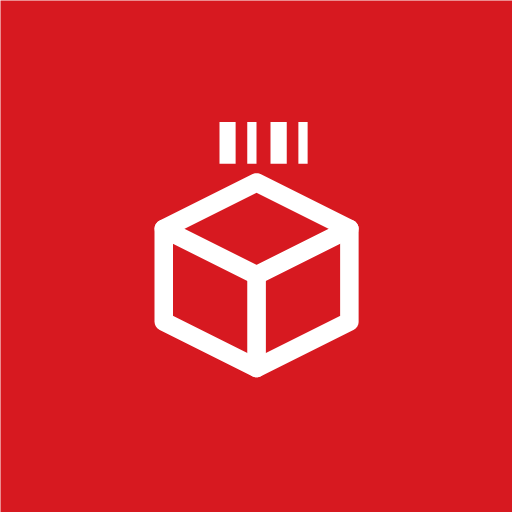
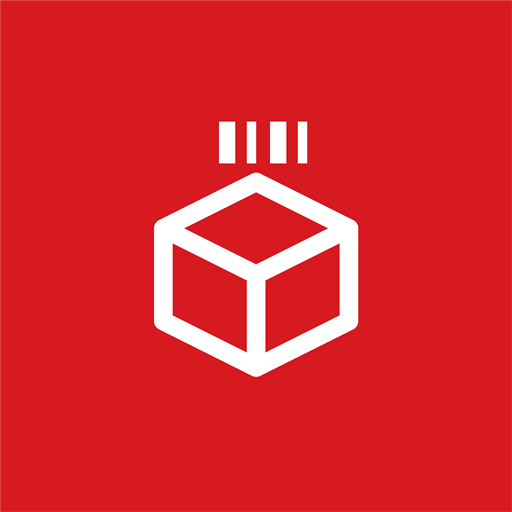
Juego completo de iconos: sin cuadrado rojo en el arranque y sin pixelar (v51)
FALTABAN LINKS EN EL HEAD
No habia apple-touch-icon ni favicon. Ninguno de los dos. En iOS eso hace que
el icono de inicio salga de una captura escalada de la pagina: por eso se veia
pixelado.

EL CUADRADO ROJO DEL ARRANQUE
Android dibuja su propia pantalla de carga con background_color y el icono del
manifest, antes de que corra una linea del codigo. Si ese icono trae fondo, se
ve el cuadrado. Ahora hay un icon-glifo-512.png SIN fondo declarado como
purpose "any", que es el que usa esa pantalla, y los de fondo rojo quedan como
purpose "maskable" para la pantalla de inicio.

PIXELADO
Los PNG ahora se generan con supersampling 4x: se dibujan al cuadruple y se
bajan con bicubica. Sin eso los bordes diagonales de la caja salian dentados.

apple-touch-icon va con fondo rojo opaco: iOS no maneja transparencia en el
icono de inicio, la compone sobre negro.

Los cinco archivos entran en el cache del service worker.

NOTA: la pantalla de arranque propia sigue usando SVG y no PNG a proposito. Ahi
no hay ningun cuadrado rojo (son trazos blancos sobre el fondo), y el SVG es lo
que permite animar el dibujo de la caja con stroke-dashoffset. Un PNG solo
podria aparecer y desaparecer.

diff --git a/index.html b/index.html
@@ -4,6 +4,8 @@
 <meta charset="UTF-8">
 <meta name="viewport" content="width=device-width, initial-scale=1.0">
 <link rel="manifest" href="manifest.json">
+<link rel="icon" type="image/png" href="favicon.png">
+<link rel="apple-touch-icon" href="apple-touch-icon.png">
 <meta name="theme-color" content="#d71920">
 <meta name="mobile-web-app-capable" content="yes">
 <meta name="apple-mobile-web-app-capable" content="yes">
@@ -560,7 +562,7 @@
 
 </main>
 
-<footer>Herramienta interna · <span>Nuñez Joel</span> · CyPe <span class="footer-version" id="footerVer">v50</span></footer>
+<footer>Herramienta interna · <span>Nuñez Joel</span> · CyPe <span class="footer-version" id="footerVer">v51</span></footer>
 
 <!-- ══════════ MODAL CÁMARA (agrupadora) ══════════ -->
 <div class="modal-overlay" id="camModalAgr">

diff --git a/sw.js b/sw.js
@@ -1,4 +1,4 @@
-const CACHE = 'agrupadora-v50';
+const CACHE = 'agrupadora-v51';
 
 // Propios: si alguno falla, el install falla (son imprescindibles).
 const ASSETS_LOCALES = [
@@ -7,7 +7,10 @@ const ASSETS_LOCALES = [
   '/Extraccion-agrupadora/manifest.json',
   '/Extraccion-agrupadora/logo.svg',
   '/Extraccion-agrupadora/icon-192.png',
-  '/Extraccion-agrupadora/icon-512.png'
+  '/Extraccion-agrupadora/icon-512.png',
+  '/Extraccion-agrupadora/icon-glifo-512.png',
+  '/Extraccion-agrupadora/apple-touch-icon.png',
+  '/Extraccion-agrupadora/favicon.png'
 ];
 
 // Externos: se cachean "best effort". En el WiFi de Andreani el proxy puede
